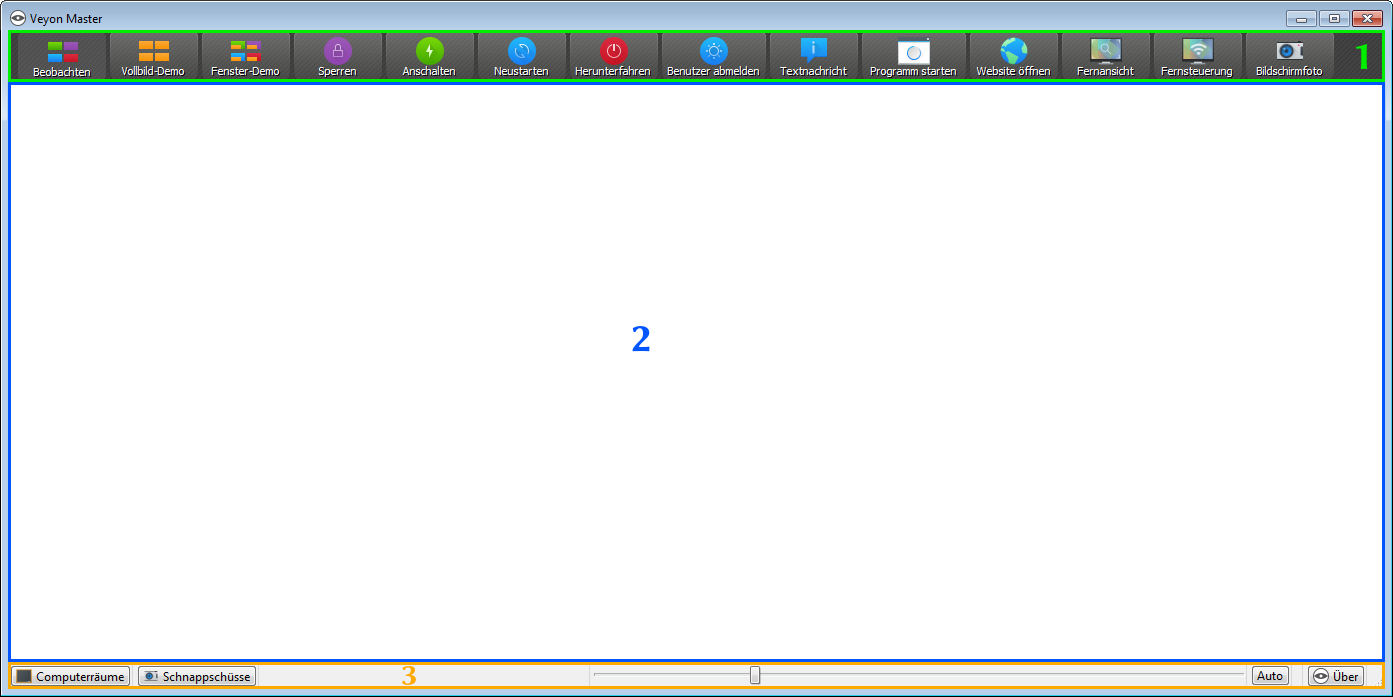
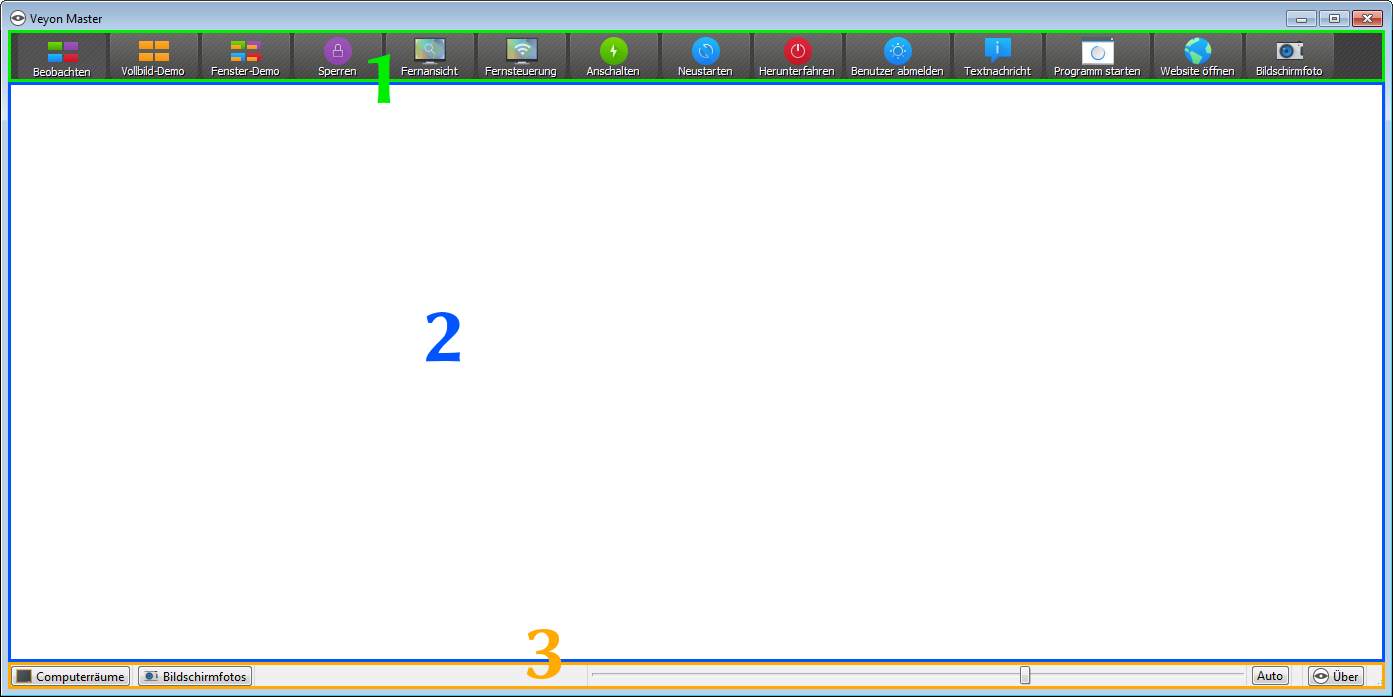
Completed introduction chapter

diff --git a/de/user/introduction.rst b/de/user/introduction.rst
@@ -28,18 +28,35 @@ Die Werkzeugleiste beinhaltet eine Reihe an Schaltflächen zur Aktivierung von v
 
 In der Arbeitsfläche werden alle zu beobachtenden Computer in einer Kachelansicht dargestellt. Abhängig von der Systemkonfiguration und vorherigen Programmstarts sehen Sie hier bereits die Computer des aktuellen Raums. Über die Computerraumverwaltung_ können Sie Computer oder ganze Computerräume ein- oder ausblenden.
 
-Die Elemente in der Statusleiste dienen der Steuerung der Programmoberfläche. So können Sie Ansichten wie die Computerraumverwaltung_ oder Schnappschussverwaltung_ aktivieren. Über den Schieberegler können Sie die Größe der angezeigten Computerbildschirme steuern. Eine automatische Anpassung auf eine optimale Größe erfolgt bei der Betätigung der Schaltfläche "Auto". Die Schaltfläche "Über" öffnet einen Dialog mit Informationen über das Programm wie z. B. Version, Hersteller und Lizenzbestimmungen.
+Die Elemente in der Statusleiste dienen der Steuerung der Programmoberfläche. So können Sie Ansichten wie die Computerraumverwaltung_ oder Bildschirmfotoverwaltung_ aktivieren. Über den Schieberegler können Sie die Größe der angezeigten Computerbildschirme steuern. Eine automatische Anpassung auf eine optimale Größe erfolgt bei der Betätigung der Schaltfläche "Auto". Die Schaltfläche "Über" öffnet einen Dialog mit Informationen über das Programm wie z. B. Version, Hersteller und Lizenzbestimmungen.
 
 .. _Computerraumverwaltung:
 
 Computerraumverwaltung
 ----------------------
 
-Über die Schaltfläche "Computerräume" in der Statusleiste können Sie die Computerraumverwaltung öffnen. In dieser Ansicht werden alle verfügbaren Computerräume in einer Baumansicht angezeigt. Einzelne Raumeinträge können über ein üblicherweise dreieckiges Symbol aufgeklappt werden.
+Über die Schaltfläche "Computerräume" in der Statusleiste können Sie die Computerraumverwaltung öffnen. In dieser Ansicht werden alle verfügbaren Computerräume in einer Baumansicht angezeigt. Einzelne Raumeinträge können Sie über ein üblicherweise dreieckiges Symbol aufgeklappen.
 
 Sie können einzelne Computer oder ganze Räume aktivieren, indem Sie sie anhaken. Alle aktivierten Computer werden in der Arbeitsfläche angezeigt.
 
-.. _Schnappschussverwaltung:
+.. image:: images/computer-room-management.png
 
-Schnappschussverwaltung
------------------------
+Über die Schaltfläche "Computer-/Benutzerliste speichern" können Sie die Liste der Computer und angemeldeten Benutzer in eine CSV-Datei speichern. Ein typischer Anwendungsfall hierfür ist eine Anwesenheitskontrolle zu einem späteren Zeitpunkt.
+
+Je nach Systemkonfiguration steht zudem die Schaltfläche "Raum hinzufügen" zur Verfügung. Darüber können Sie weitere Computerräume zur Ansicht hinzufügen. Ein Klick auf die Schaltfläche öffnet einen Dialog, in dem Sie alle verfügbaren Räume sehen:
+
+.. image:: images/room-selection.png
+
+Sie können die Liste über das Eingabefeld filtern, also einen Suchbegriff eingeben. In der Liste werden dann nur noch die Raumnamen angezeigt, in denen der eingegebene Suchbegriff vorkommt. Fortgeschrittene Benutzer können auch reguläre Ausdrücke für den Filter verwenden. Anschließend können Sie einen Raum auswählen und über "OK" bestätigen. Der gewählte Raum steht nun in der Raumliste zur Verfügung.
+
+.. _Bildschirmfotoverwaltung:
+
+Bildschirmfotoverwaltung
+------------------------
+
+In der Verwaltungsansicht für Bildschirmfotos können Sie erstellte Bildschirmfotos einsehen und löschen. Im Kapitel :ref:`Programmfunktionen` wird die Funktion zum Erstellen eines Bildschirmfotos im Abschnitt :ref:`Bildschirmfoto` erläutert.
+
+.. image:: images/screenshot-management.png
+
+Sie können nun einzelne Bildschirmfotos in der Liste auswählen. Anschließend werden Details zum Bildschirmfoto wie Aufnahmedatum, Benutzername und Rechnername in der darunter befindlichen Tabelle angezeigt. Über die Schaltfläche "Anzeigen" oder einen Doppelklick in der Liste wird das gewählte Bildschirmfoto in voller Größe angezeigt. Wenn Sie das Bildschirmfoto nicht mehr benötigen, können Sie es mit Hilfe der Schaltfläche "Löschen" dauerhaft löschen. Bitte beachten Sie, dass dieser Vorgang nicht rückgängig gemacht werden kann und die Dateien auch nicht in den Papierkorb verschoben werden.
+
